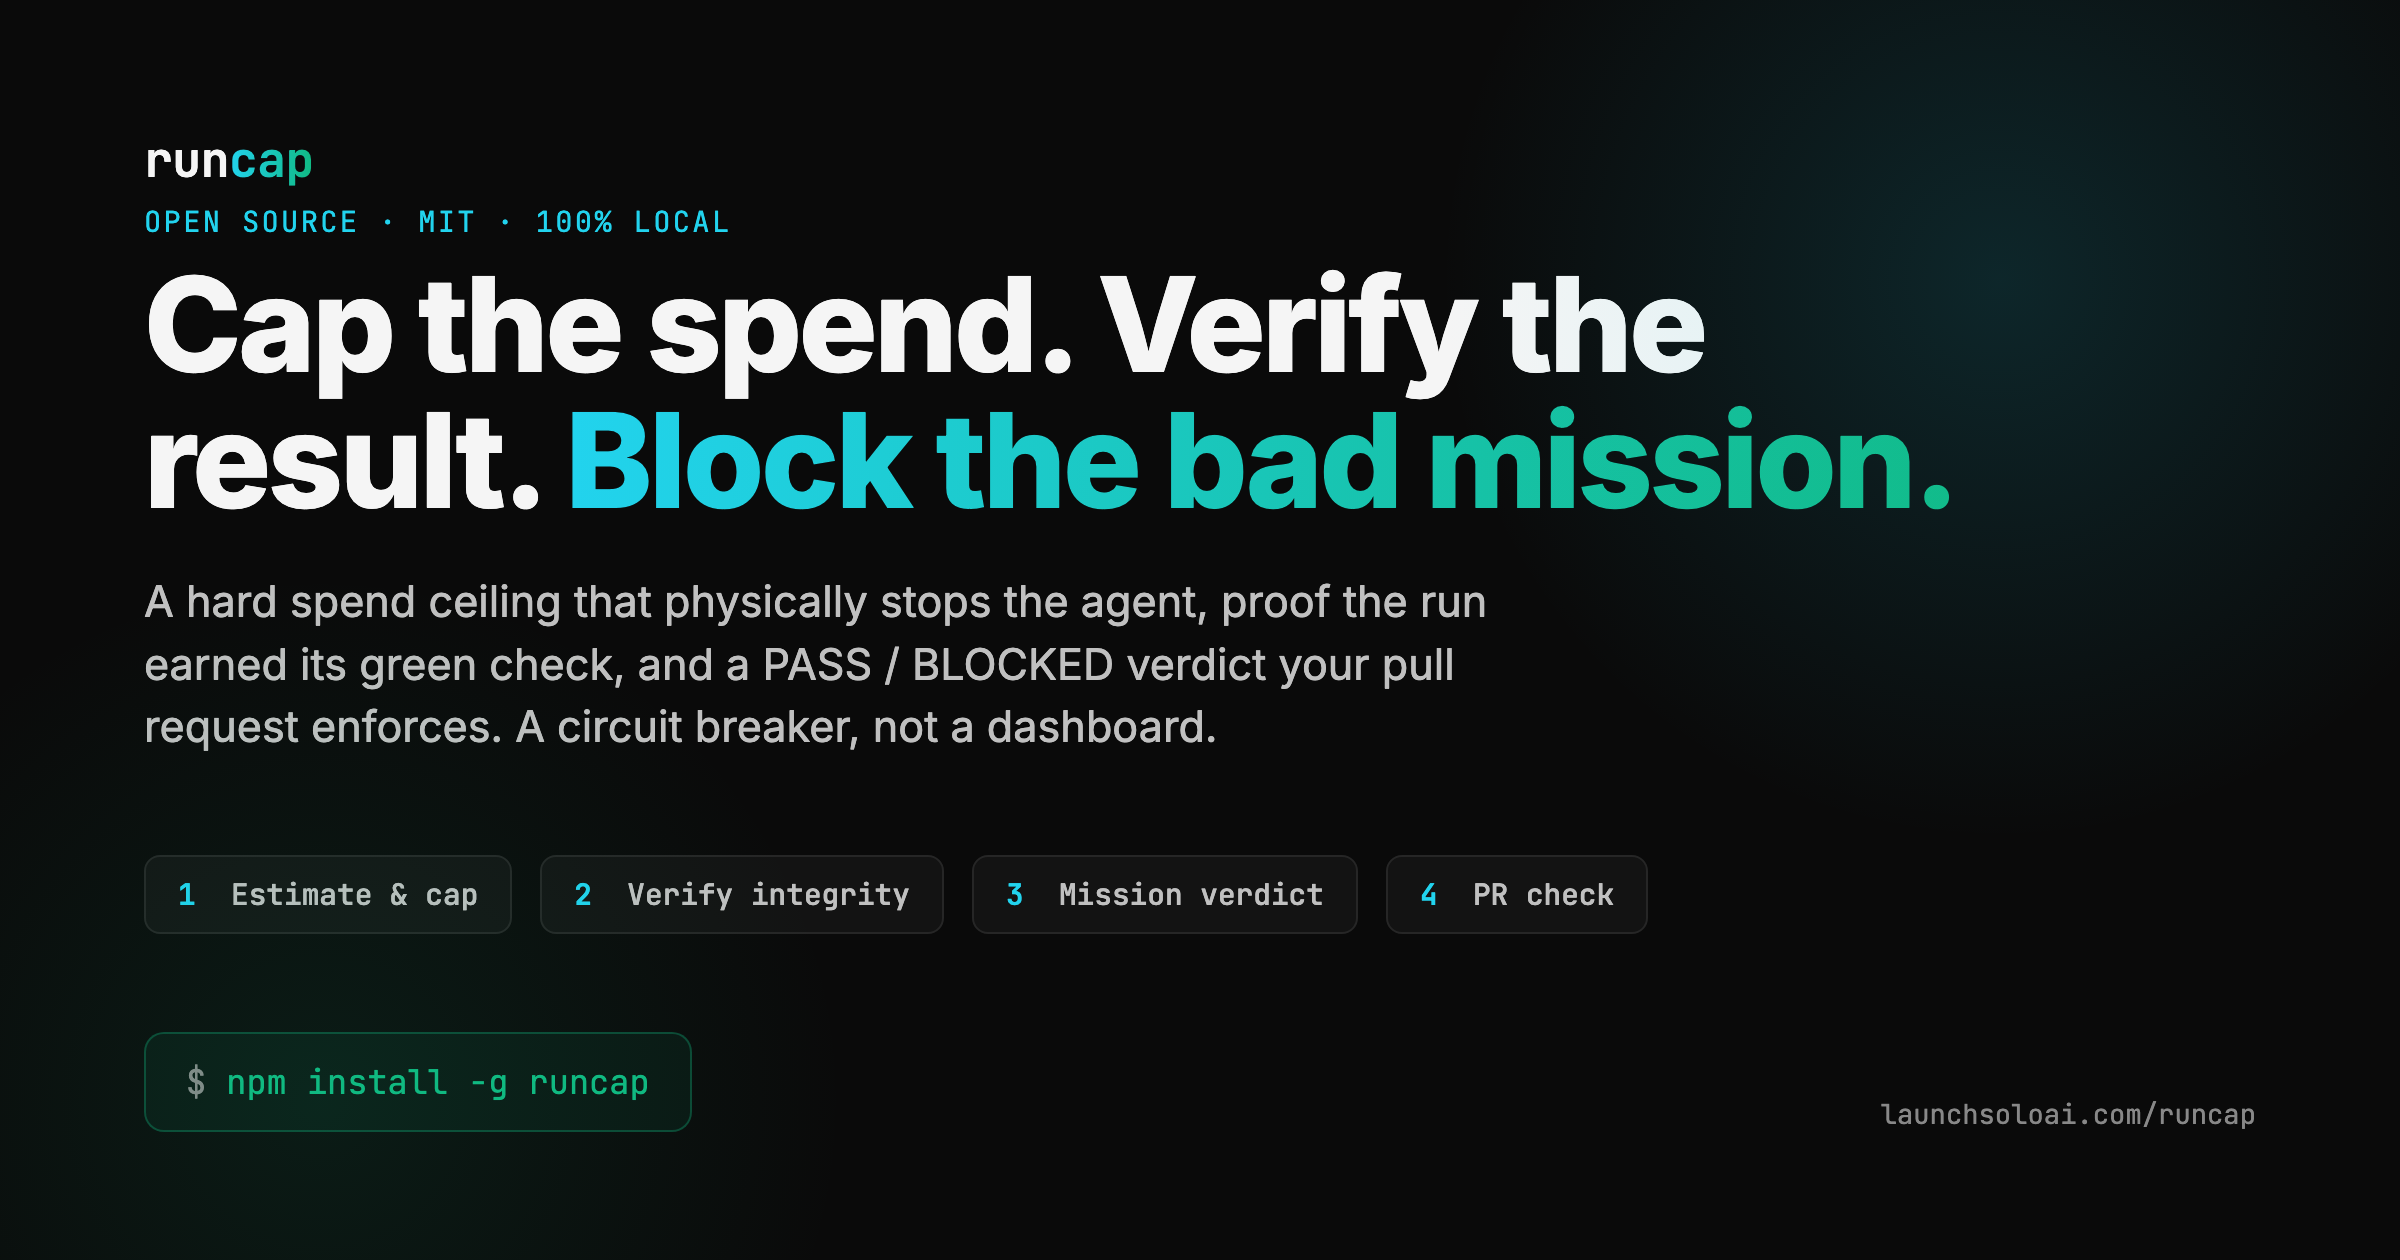
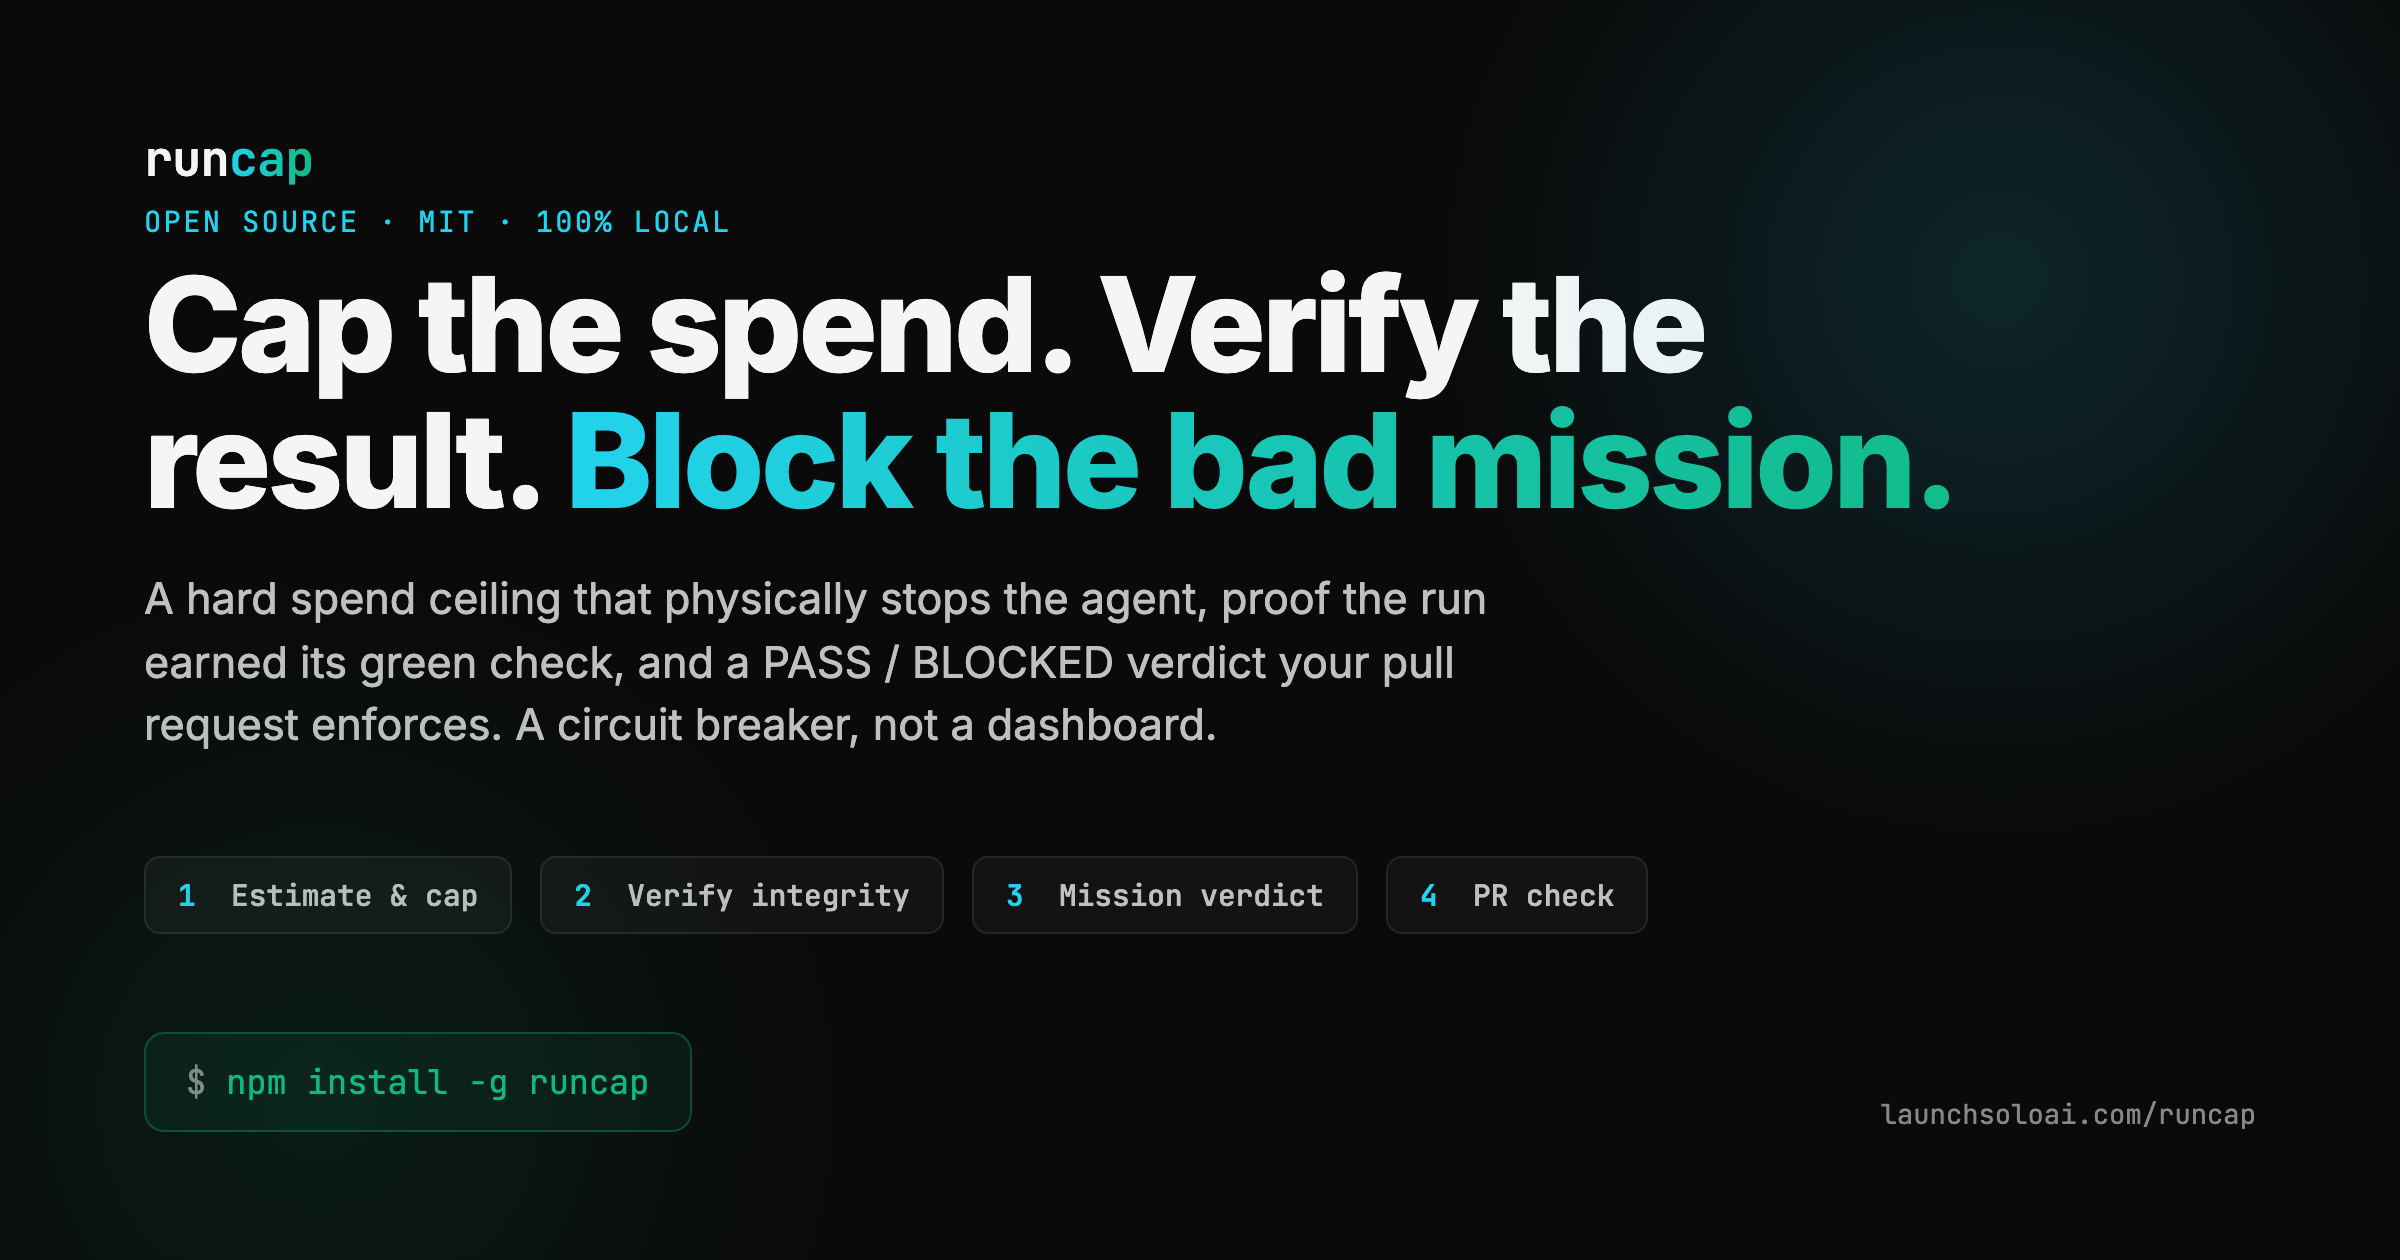
docs: add Playwright screenshot renderer + static demo.png proof
Add scripts/render-media-screenshots.mjs (Playwright, 2x) and an `npm run
screenshots` alias so the social PNGs regenerate from their HTML sources.
Re-render cover.png/demo.png and embed demo.png in the README as a static
proof shot below the animated SVG hero.

Changed region(s): [[0.0625, 0.4643, 0.625, 0.5881], [0.0625, 0.5262, 0.3438, 0.5881], [0.5312, 0.5262, 0.5625, 0.5571]]

diff --git a/README.md b/README.md
@@ -70,6 +70,8 @@ If you have those, Runcap caps your spend in one command. If you are looking for
 
 No API key required.
 
+![Runcap terminal proof: estimate, cap spend, compress tokens, verify integrity, and block a compromised mission](docs/assets/media/demo.png)
+
 ```bash
 git clone https://github.com/kirder24-code/ai-agent-manager.git
 cd ai-agent-manager